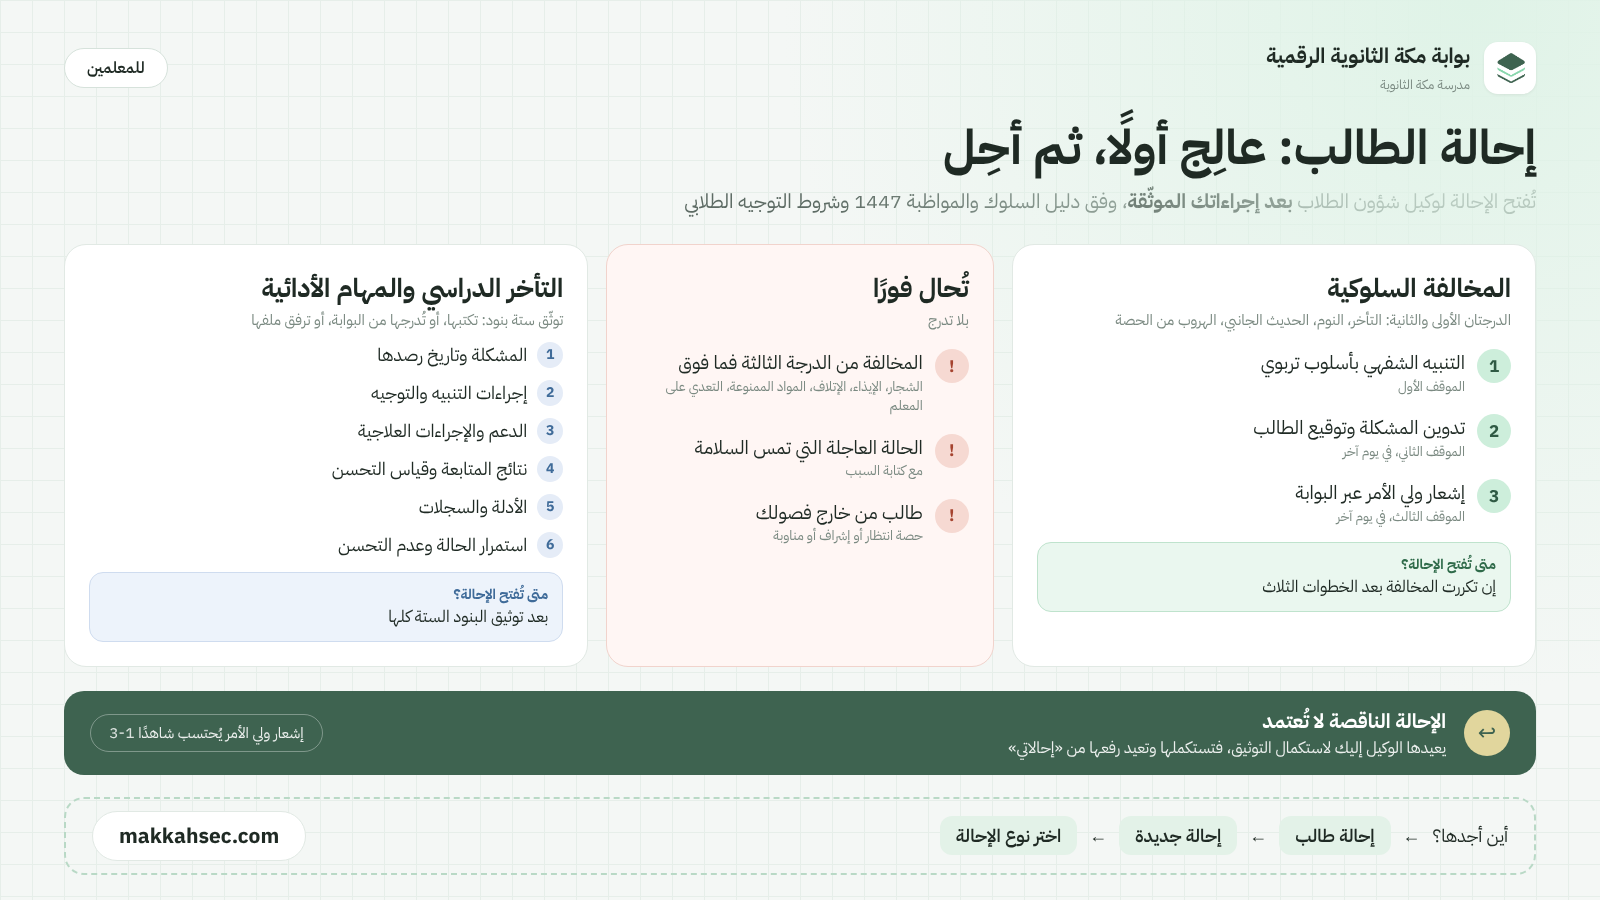
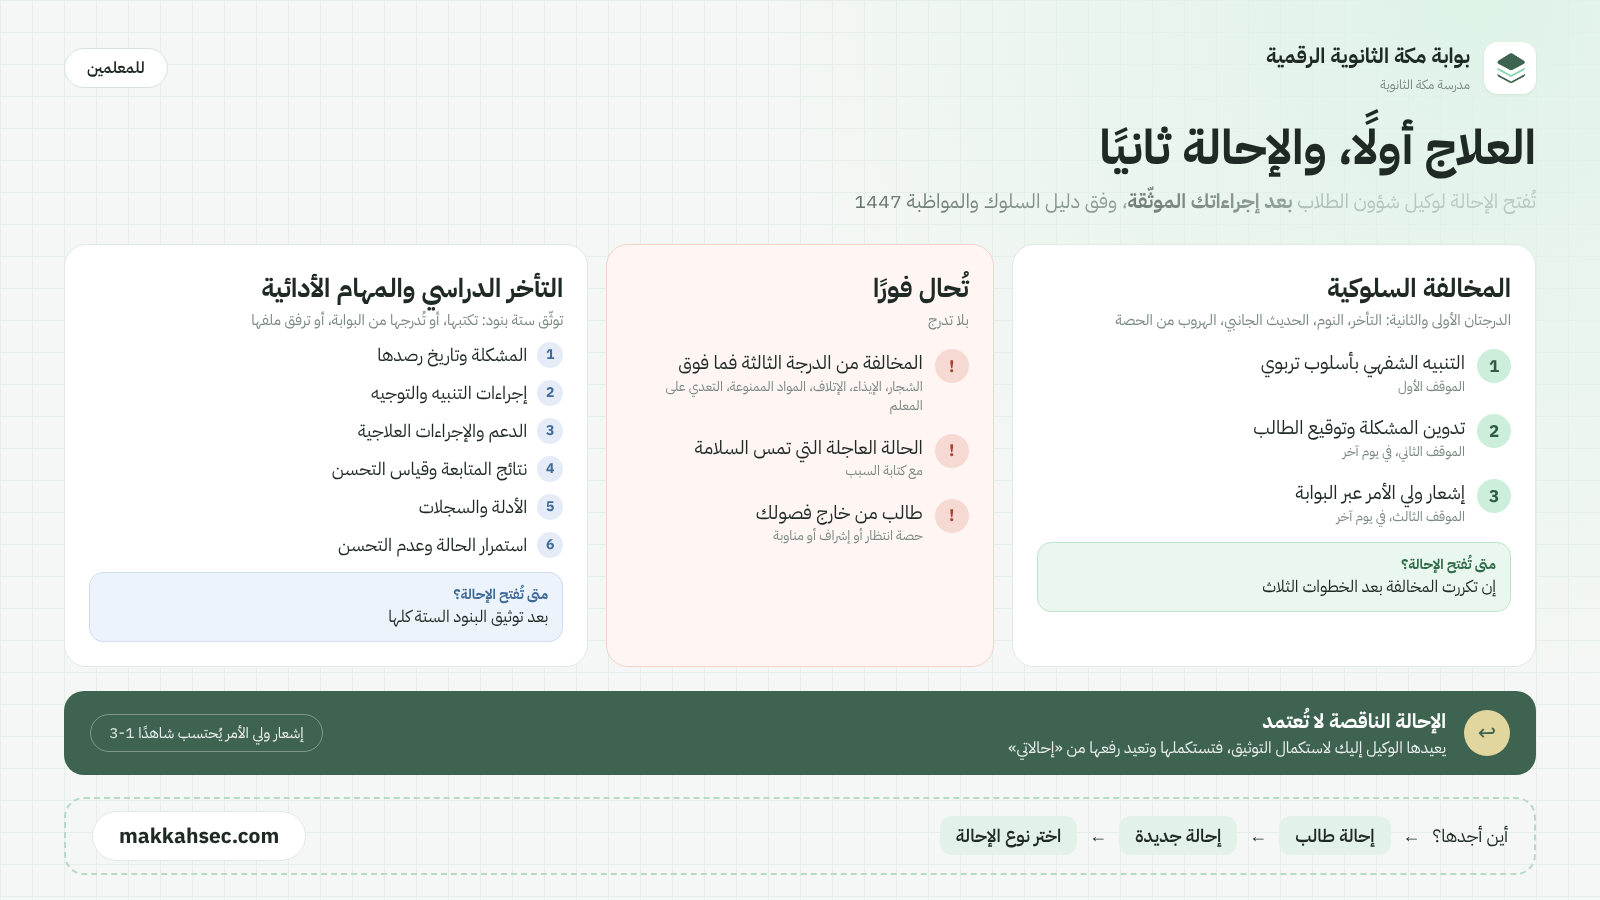
منشور الإحالة: العنوان «العلاج أولًا، والإحالة ثانيًا» وحذف ذكر شروط التوجيه الطلابي
Claude-Session: https://claude.ai/code/session_01PJ4BzTuJ7ytba8wByxmwrn

Changed region(s): [[0.5938, 0.1244, 0.9688, 0.2178], [0.4375, 0.2178, 0.5312, 0.2489]]

diff --git a/docs/referral-guide-post.md b/docs/referral-guide-post.md
@@ -4,9 +4,9 @@
 
 ## النص المرافق
 
-إحالة الطالب في بوابة مكة الثانوية الرقمية: عالِج أولًا، ثم أحِل
+إحالة الطالب في بوابة مكة الثانوية الرقمية: العلاج أولًا، والإحالة ثانيًا
 
-تُفتح الإحالة لوكيل شؤون الطلاب بعد إجراءاتك الموثّقة، وفق دليل السلوك والمواظبة 1447 وشروط التوجيه الطلابي.
+تُفتح الإحالة لوكيل شؤون الطلاب بعد إجراءاتك الموثّقة، وفق دليل السلوك والمواظبة 1447.
 
 ١. المخالفة السلوكية (الدرجتان الأولى والثانية: التأخر، النوم، الحديث الجانبي، الهروب من الحصة):
 كل خطوة في موقف مستقل:
